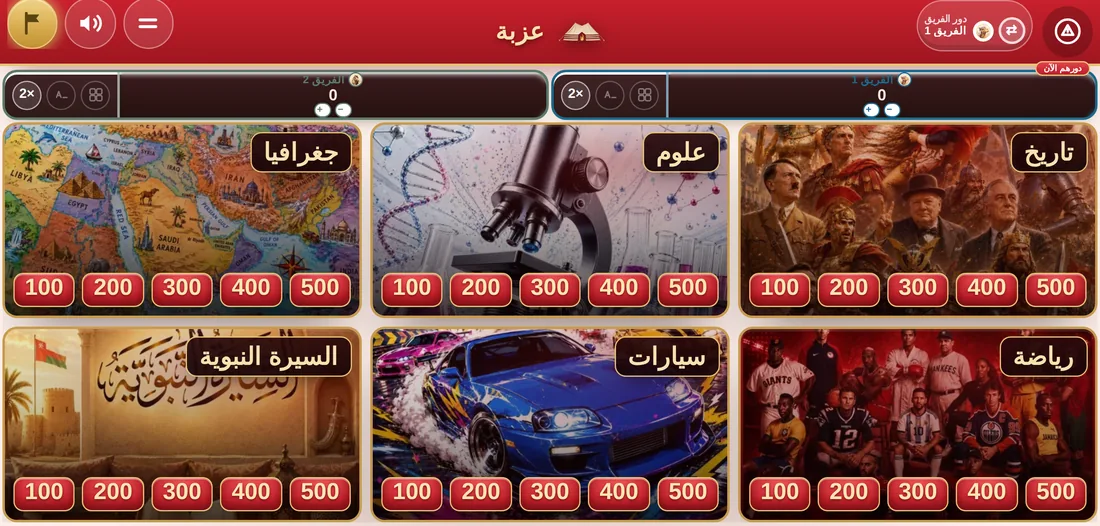
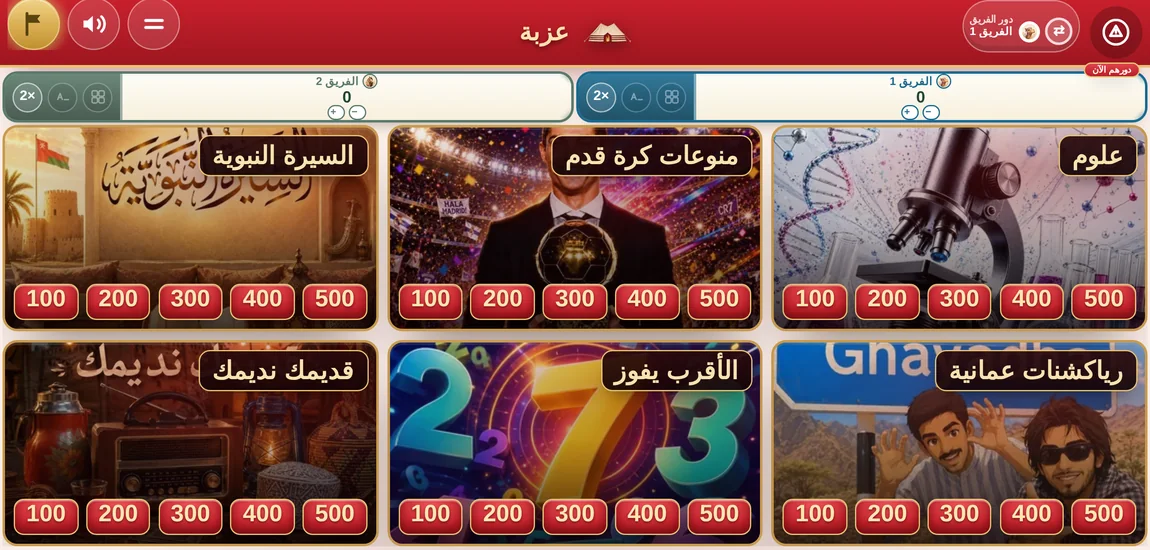
Landing page: game screens now match the app as it actually looks
The captures were wrong in three ways at once, all because they were taken
against a game that couldn't reach Firebase:

* DARK theme. The game's default is light — the board, picker and answer
  screens players see are cream, not near-black.
* Only the 20 built-in categories. The real picker shows all 39 with their
  published covers.
* Questions with no photo. Every image lives in the cloud copy of a question,
  so an offline capture shows bare text; the real thing is a photo above the
  question.

The capture now injects the published categories and real question documents
(fetched from the public /categories collection) before shooting, so the shots
are the app as it stands today.

Step 3 also changed screen: the answer view with the «من جاوب؟» award panel
says far more about how the game is actually played than a bare question did —
it shows the moment the table argues over who got it.

Claude-Session: https://claude.ai/code/session_01Kzeetd7pnUyQnYaeMeHMkz

diff --git a/preview/index.html b/preview/index.html
@@ -595,26 +595,26 @@ footer{border-top:1px solid var(--rule); padding-block:52px 40px; margin-top:cla
     <div class="steps">
       <div>
         <div class="shot tall rv">
-          <img src="shots/picker.webp" alt="شاشة اختيار الفئات في اللعبة" loading="lazy" decoding="async" width="600" height="1275">
+          <img src="shots/picker.webp" alt="شاشة اختيار الفئات في اللعبة" loading="lazy" decoding="async" width="620" height="1354">
         </div>
-        <div class="step-cap"><b>١</b> اختاروا الفئات وسمّوا الفرق</div>
+        <div class="step-cap"><b>١</b> اختاروا فئاتكم من ٣٩ فئة، وسمّوا الفرق</div>
       </div>
       <div class="wide-col">
         <div>
           <div class="shot rv" data-d="1">
-            <img src="shots/board.webp" alt="لوحة اللعب — أربع فئات وخمس مستويات نقاط" loading="lazy" decoding="async" width="1100" height="526">
+            <img src="shots/board.webp" alt="لوحة اللعب — أربع فئات وخمس مستويات نقاط" loading="lazy" decoding="async" width="1150" height="550">
           </div>
           <div class="step-cap"><b>٢</b> اختاروا خانة من اللوحة — كل ما غلت، صعبت</div>
         </div>
         <div>
           <div class="shot rv" data-d="2">
-            <img src="shots/question.webp" alt="شاشة السؤال مع المؤقّت والنقاط" loading="lazy" decoding="async" width="1100" height="526">
+            <img src="shots/answer.webp" alt="شاشة الإجابة — الصورة والإجابة الصحيحة وأزرار «من جاوب؟»" loading="lazy" decoding="async" width="1150" height="550">
           </div>
-          <div class="step-cap"><b>٣</b> جاوبوا — والنقاط تُحتسب تلقائياً</div>
+          <div class="step-cap"><b>٣</b> اضغطوا «من جاوب؟» — والنقاط تُحتسب تلقائياً</div>
         </div>
       </div>
     </div>
-    <p class="shot-note rv" data-d="3">لقطات حقيقية من اللعبة — اللوحة والسؤال يُلعبان والجهاز بالعرض.</p>
+    <p class="shot-note rv" data-d="3">لقطات حقيقية من داخل اللعبة — اللوحة وشاشة الإجابة تُلعبان والجهاز بالعرض.</p>
   </section>
 
   <!-- ── STATS ────────────────────────────────────────────── -->
